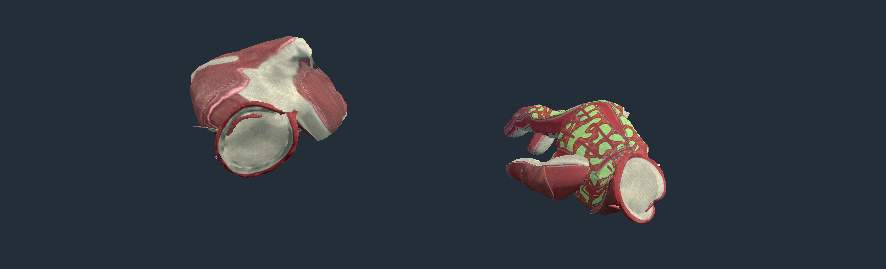
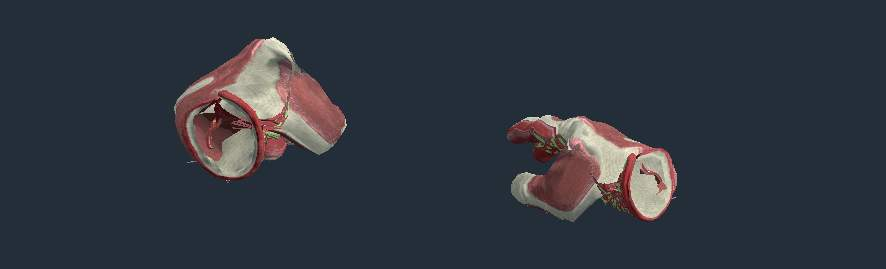
docs: deliver actual Arsenal capture of rebuilt native gloves

Changed region(s): [[0.1828, 0.119, 0.3962, 0.684], [0.5485, 0.3569, 0.7619, 0.8327]]

diff --git a/docs/GLOVE_HAND_ORIENTATION.md b/docs/GLOVE_HAND_ORIENTATION.md
@@ -1,26 +1,15 @@
-# Intercambio anatómico de los guantes Sport nuevos
+# Reconstrucción de los guantes Sport
 
-## Problema señalado
+La conversión anterior fue rechazada visualmente por el usuario. Se elimina el intercambio de huesos y la reflexión de la palma introducidos en esa revisión; sus resultados técnicos no se consideran aprobación visual.
 
-La captura del usuario corresponde a la inspección de Bronze Morph en el Arsenal. La revisión anterior cambiaba L/R en los binds y trasladaba los vértices a la mano contraria, pero conservaba su orientación local de origen. Cambiar los índices y posiciones de los huesos no cambia la quiralidad de una mano: puede conservar el pulgar/palma del lado incorrecto.
+## Implementación nueva
 
-## Cambio
+`python -m tools.source.rebuild_native_sport` reconstruye `assets/models/agent_arms/sport.glb` desde el mesh **viewmodel** original de `models/gloves/5030.glb` de cs2go, revisión fijada en el importador. No mezcla el mesh worldmodel ni reutiliza los vértices del Sport convertido anteriormente.
 
-`AgentViewArms` mantiene el intercambio completo de las manos de los Sport nuevos, pero ahora calcula un marco anatómico en cada muñeca y falange:
+La calibración usa muñeca, índice, meñique y segmentos reales de los dedos para crear bases anatómicas completas en origen y destino. Evita inferir la rotación únicamente a partir de ejes longitudinales casi paralelos de los dedos, que dejan ambiguo el giro de palma/dorso. La base completa de la palma se expresa en coordenadas locales de la muñeca para calibrar las convenciones de los huesos, sin orientar cada falange por separado. Conserva correspondencia del mismo lado, UVs, pesos, matrices de bind y materiales nativos. El factor de unidades sigue siendo el del paquete dedicado.
 
-- Eje longitudinal siguiendo la cadena del dedo.
-- Eje lateral a partir del índice y meñique.
-- Eje perpendicular de palma/dorso, que se refleja para cambiar la quiralidad al pasar a la mano opuesta.
-- Anclaje en el hueso de destino; se mantienen los pesos de cada vértice vinculados al dedo correspondiente de la mano contraria.
+En ejecución se retira toda la lógica de intercambio/reflexión anterior. La geometría nueva usa el retarget compartido hacia cada rig de arma/cuchillo, sin modificar sus animaciones ni las mangas independientes. Los 19 acabados nativos usan la nueva geometría.
 
-La corrección incluye normales por inversa transpuesta, inversión del orden de los triángulos y regeneración de tangentes. No se limita a desactivar el culling para ocultar una malla del revés. La versión de la caché de geometría también cambia para no reutilizar la conversión anterior.
+## Evidencia
 
-No se espeja la cámara/Arsenal para disimular el problema. Las preferencias de mano derecha/izquierda del jugador conservan su comportamiento independiente. No se alteran texturas, UVs, pinturas, poses ni pistas de animación de armas/cuchillos, y no se intercambian las mangas de los agentes. Se aplica a la geometría compartida por los 19 acabados Sport nuevos con `native_uv`; los guantes clásicos y la conversión Sport anterior conservan su ruta existente.
-
-## Validación
-
-`GloveHandOrientationTest` comprueba anclajes, dirección de las falanges, cambio de quiralidad y reversibilidad del intercambio. Captura el **Bronze Morph `cs2go_5030_10046` de la incidencia** en el Arsenal, incluidos momentos distintos de su inspección. También comprueba primera persona con Glock, inspección de cuchillo original, Karambit y Shadow Daggers, Amphibious y la preferencia de mano izquierda.
-
-`AgentViewArmsTest` conserva la comprobación de cada arma y cuchillo y de las mangas independientes. Estas comprobaciones son regresiones técnicas, no sustituyen la revisión visual de las capturas.
-
-Ejecución renderizada [43296464936](https://github.com/ShadowNigth/15/actions/runs/43296464936): **234 comprobaciones de orientación y 855 de compatibilidad, sin fallos**. Se revisaron las capturas reales de Bronze Morph en Arsenal, inspección/palma y Glock; se incluyen en `docs/evidence/glove-orientation/`. Verificación estática inicial: 60 scripts, 53 referencias, 43 armas, 26 mapas, 392 GLB y 1021 WAV, sin errores. La revisión técnica no implica aprobación visual del usuario.
+Validación estática de la reconstrucción: 60 scripts, 53 referencias, 43 armas, 26 mapas, 392 GLB y 1021 WAV, sin errores. Ejecución renderizada [43302805116](https://github.com/ShadowNigth/15/actions/runs/43302805116), revisión `655a277e`: 14912 comprobaciones del flujo de guantes y 855 de compatibilidad, sin fallos. La captura completa de esta revisión está en `docs/evidence/glove-orientation/arsenal-rebuilt.jpg`; se actualizaron también las capturas de detalle y Glock. Se entregan para revisión visual del usuario, no como aprobación visual implícita.
